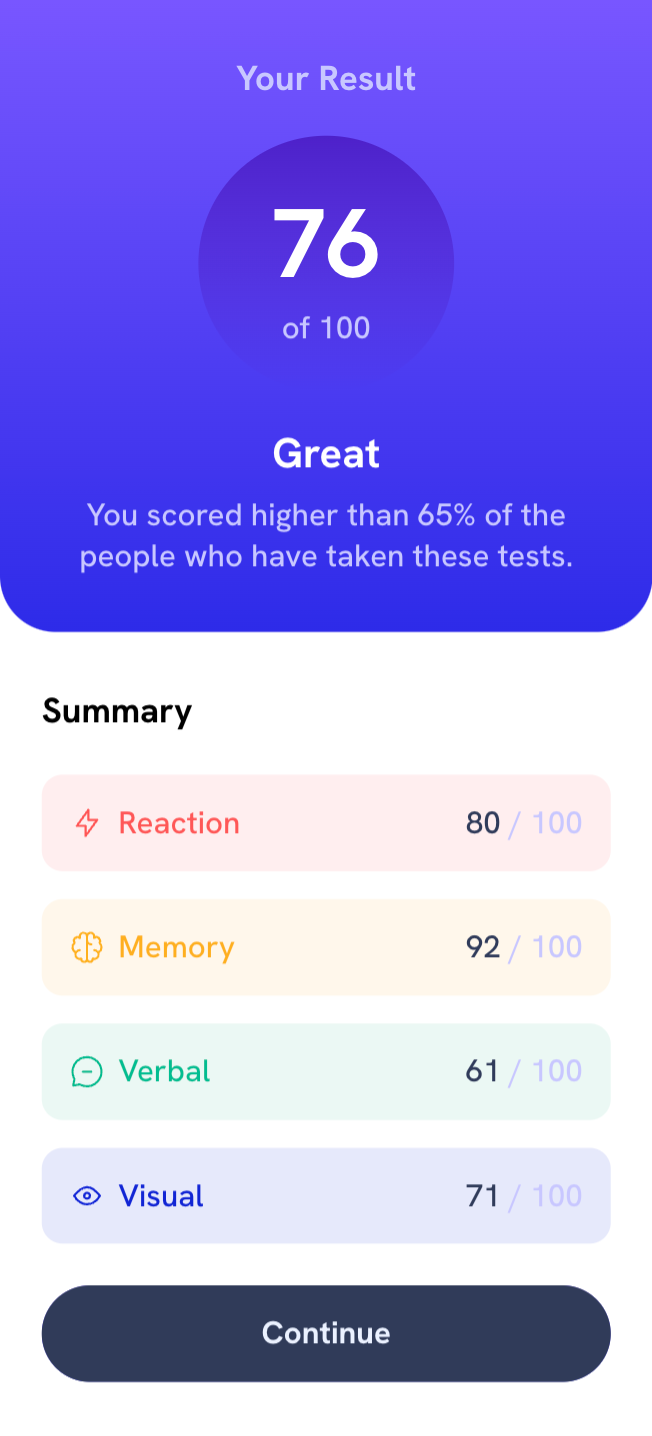
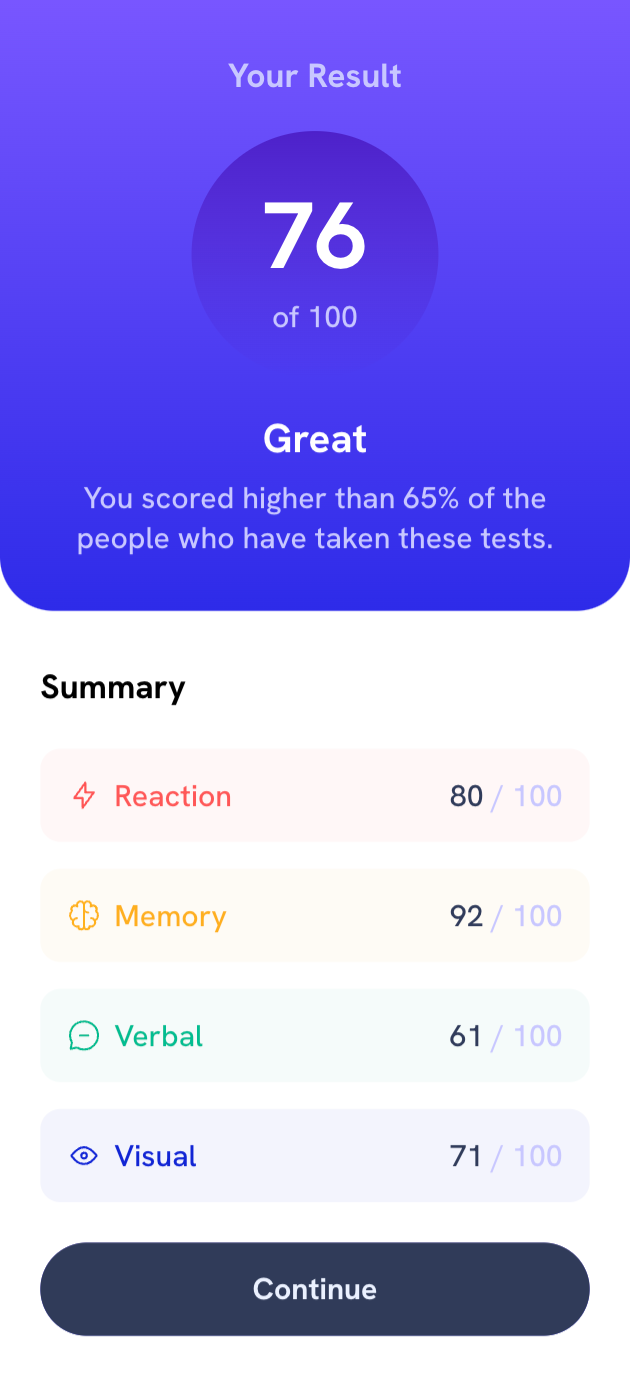
changed html, css, and screenshot

diff --git a/css/style.scss b/css/style.scss
@@ -1,15 +1,31 @@
 @charset "UTF-8";
+$White: hsl(0, 0%, 100%);
+$PaleBlue: hsl(221, 100%, 96%);
+$LightLavender: hsl(241, 100%, 89%);
+$DarkGrayBlue: hsl(224, 30%, 27%);
+$LightSlateBlue: hsl(252, 100%, 67%);
+$LightRoyalBlue:  hsl(241, 81%, 54%);
+$VioletBlue: hsla(256, 72%, 46%, 1);
+$PersianBlue: hsla(241, 72%, 46%, 0);
+
+$LightRed: hsl(0, 100%, 67%);
+$OrangeyYellow: hsl(39, 100%, 56%);
+$GreenTeal: hsl(166, 100%, 37%);
+$CobaltBlue: hsl(234, 85%, 45%);
 
 body {
   font-family: 'Hanken Grotesk', sans-serif;
+  font-size: 18px;
 }
 
 main {
   height: 100vh;
+  display: flex;
+  justify-content: center;
+  align-items: start;
 
   .container {
     max-width: 480px;
-    margin: 0 auto;
   }
 }
 
@@ -24,8 +40,8 @@ main {
 }
 
 .result {
-  background: linear-gradient(hsl(252, 100%, 67%),  hsl(241, 81%, 54%));
-  color: hsl(0, 0%, 100%);
+  background: linear-gradient($LightSlateBlue, $LightRoyalBlue);
+  color: $White;
   display: flex;
   flex-direction: column;
   justify-content: center;
@@ -36,11 +52,11 @@ main {
   border-bottom-right-radius: 3.2rem;
 
   h1 {
-    color: hsl(241, 100%, 89%);
+    color: $LightLavender;
   }
 
   .result-point {
-    background: linear-gradient(hsla(256, 72%, 46%, 1), hsla(241, 72%, 46%, 0));
+    background: linear-gradient($VioletBlue, $PersianBlue);
     border-radius: 50%;
     display: flex;
     flex-direction: column;
@@ -54,7 +70,7 @@ main {
     }
 
     p {
-      color: hsl(241, 100%, 89%);
+      color: $LightLavender;
     }
   }
 
@@ -64,7 +80,7 @@ main {
     }
 
     p {
-      color: hsl(241, 100%, 89%);
+      color: $LightLavender;
       padding: 0.8rem 1.6rem 0;
     }
   }
@@ -90,42 +106,42 @@ main {
       }
 
       .summary-point {
-        color: hsl(241, 100%, 89%);
+        color: $LightLavender;
 
         span {
-          color: hsl(224, 30%, 27%);
+          color: $DarkGrayBlue;
         }
       }
 
       &:nth-of-type(1) {
-        background-color: rgba($color: hsl(0, 100%, 67%), $alpha: 0.1);
+        background-color: rgba($color: $LightRed, $alpha: 0.05);
 
         .summary-title {
-          color: hsl(0, 100%, 67%);
+          color: $LightRed;
         }
       }
 
       &:nth-of-type(2) {
-        background-color: rgba($color: hsl(39, 100%, 56%), $alpha: 0.1);
+        background-color: rgba($color: $OrangeyYellow, $alpha: 0.05);
 
         .summary-title {
-          color: hsl(39, 100%, 56%);
+          color: $OrangeyYellow;
         }
       }
 
       &:nth-of-type(3) {
-        background-color: rgba($color: hsl(166, 100%, 37%), $alpha: 0.1);
+        background-color: rgba($color: $GreenTeal, $alpha: 0.05);
 
         .summary-title {
-          color: hsl(166, 100%, 37%);
+          color: $GreenTeal;
         }
       }
 
       &:nth-of-type(4) {
-        background-color: rgba($color: hsl(234, 85%, 45%), $alpha: 0.1);
+        background-color: rgba($color: $CobaltBlue, $alpha: 0.05);
 
         .summary-title {
-          color: hsl(234, 85%, 45%);
+          color: $CobaltBlue;
         }
       }
     }
@@ -136,7 +152,7 @@ main {
     display: block;
     z-index: 0;
     background: transparent;
-    color: hsl(221, 100%, 96%);
+    color: $PaleBlue;
     font-weight: bold;
     text-align: center;
     padding: 1.6rem;
@@ -154,13 +170,13 @@ main {
     }
 
     &::before {
-      background-color: hsl(224, 30%, 27%);
+      background-color: $DarkGrayBlue;
       z-index: -1;
       transition: 0.3s;
     }
 
     &::after {
-      background: linear-gradient(hsl(252, 100%, 67%), hsl(241, 81%, 54%));
+      background: linear-gradient($LightSlateBlue, $LightRoyalBlue);
       z-index: -2;
     }
 
@@ -172,8 +188,6 @@ main {
 
 @media screen and (min-width: 768px) {
   main {
-    display: flex;
-    justify-content: center;
     align-items: center;
 
     .container {
@@ -184,7 +198,7 @@ main {
   .results-summary-box {
     display: flex;
     border-radius: 3.2rem;
-    box-shadow: 4px 4px 24px rgba($color: hsla(241, 72%, 46%, 0), $alpha: 0.1);
+    box-shadow: 4px 4px 24px rgba($color: $PersianBlue, $alpha: 0.1);
 
     & > div {
       width: 50%;

diff --git a/css/style.css b/css/style.css
@@ -1,13 +1,16 @@
 body {
   font-family: "Hanken Grotesk", sans-serif;
+  font-size: 18px;
 }
 
 main {
   height: 100vh;
+  display: flex;
+  justify-content: center;
+  align-items: start;
 }
 main .container {
   max-width: 480px;
-  margin: 0 auto;
 }
 
 .results-summary-box > div {
@@ -79,25 +82,25 @@ main .container {
   color: hsl(224, 30%, 27%);
 }
 .summary ul li:nth-of-type(1) {
-  background-color: rgba(255, 87, 87, 0.1);
+  background-color: rgba(255, 87, 87, 0.05);
 }
 .summary ul li:nth-of-type(1) .summary-title {
   color: hsl(0, 100%, 67%);
 }
 .summary ul li:nth-of-type(2) {
-  background-color: rgba(255, 176, 31, 0.1);
+  background-color: rgba(255, 176, 31, 0.05);
 }
 .summary ul li:nth-of-type(2) .summary-title {
   color: hsl(39, 100%, 56%);
 }
 .summary ul li:nth-of-type(3) {
-  background-color: rgba(0, 189, 145, 0.1);
+  background-color: rgba(0, 189, 145, 0.05);
 }
 .summary ul li:nth-of-type(3) .summary-title {
   color: hsl(166, 100%, 37%);
 }
 .summary ul li:nth-of-type(4) {
-  background-color: rgba(17, 37, 212, 0.1);
+  background-color: rgba(17, 37, 212, 0.05);
 }
 .summary ul li:nth-of-type(4) .summary-title {
   color: hsl(234, 85%, 45%);
@@ -138,8 +141,6 @@ main .container {
 
 @media screen and (min-width: 768px) {
   main {
-    display: flex;
-    justify-content: center;
     align-items: center;
   }
   main .container {

diff --git a/index.html b/index.html
@@ -5,11 +5,11 @@
   <meta name="viewport" content="width=device-width, initial-scale=1.0">
   <title>Frontend Mentor | Results summary component</title>
   <link rel="icon" type="image/png" sizes="32x32" href="images/favicon-32x32.png">
+  <link rel="stylesheet" href="css/reset.css">
+  <link rel="stylesheet" href="css/style.css">
   <link rel="preconnect" href="https://fonts.googleapis.com">
   <link rel="preconnect" href="https://fonts.gstatic.com" crossorigin>
   <link href="https://fonts.googleapis.com/css2?family=Hanken+Grotesk:wght@500;700;800&display=swap" rel="stylesheet">
-  <link rel="stylesheet" href="css/reset.css">
-  <link rel="stylesheet" href="css/style.css">
 </head>
 <body>
   <main>
@@ -26,7 +26,6 @@
             <p>You scored higher than 65% of the people who have taken these tests.</p>
           </div>
         </div>
-
         <div class="summary">
           <h1>Summary</h1>
           <ul>

diff --git a/css/reset.css b/css/reset.css
@@ -21,8 +21,7 @@ html {
 }
 
 body {
-  font-size: 1.8rem;
-  line-height: 1.3;
+  font-size: 1.6rem;
   -webkit-font-smoothing: antialiased;
 }
 
